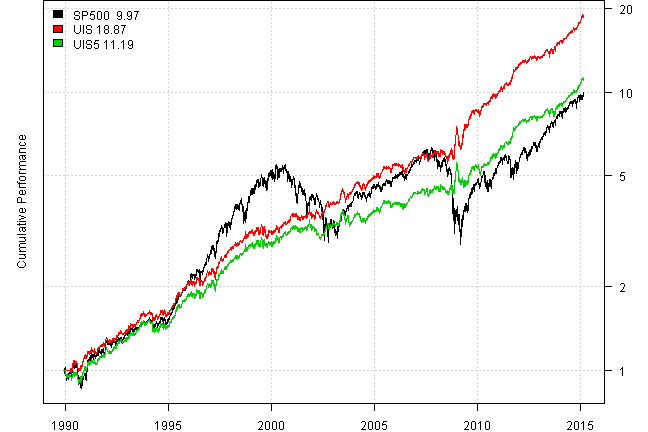
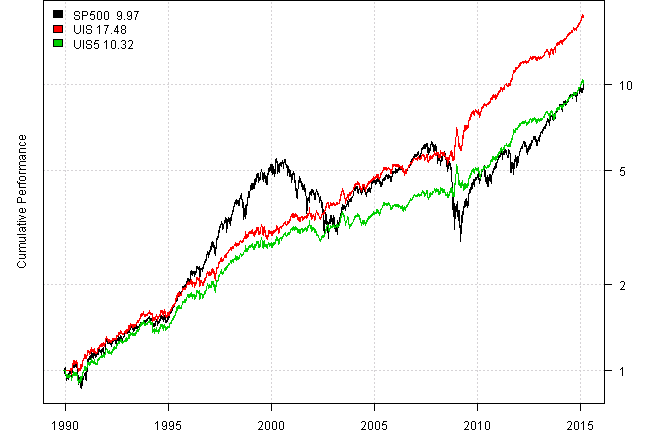
update blog post

diff --git a/_posts/2015-02-24-Walk-Forward-Optimization.md b/_posts/2015-02-24-Walk-Forward-Optimization.md
@@ -115,52 +115,20 @@ weight = make.xts(weight, data$dates[period.ends])
 #*****************************************************************
 # Test strategy
 #*****************************************************************
+commission = list(cps = 0.01, fixed = 10.0, percentage = 0.0)
+
 models = list()
 
 data$weight[] = NA
 	data$weight$EQ = 1
-models$SP500 = bt.run.share(data, clean.signal=T)
-{% endhighlight %}
-
-Latest weights :
+models$SP500 = bt.run.share(data, clean.signal=T, commission = commission, trade.summary=T, silent=T)
 
 
-|           |  EQ| FI|
-|:----------|---:|--:|
-|2015-02-25 | 100|  0|
-    
-
-
-
-Performance summary :
-	CAGR	Best	Worst	
-	9.5	14.5	-9.8	
-
-
-
-{% highlight r %}
 data$weight[] = NA
   data$weight[period.ends,] = as.matrix(weight)
-models$UIS = bt.run.share(data, clean.signal=F)
-{% endhighlight %}
-
-Latest weights :
+models$UIS = bt.run.share(data, clean.signal=F, commission = commission, trade.summary=T, silent=T)
 
 
-|           |    EQ|    FI|
-|:----------|-----:|-----:|
-|2015-02-25 | 53.06| 46.94|
-    
-
-
-
-Performance summary :
-	CAGR	Best	Worst	
-	12.4	5.2	-4.2	
-
-
-
-{% highlight r %}
 #*****************************************************************
 # Create Report
 #*****************************************************************
@@ -176,16 +144,20 @@ print(plotbt.strategy.sidebyside(models, make.plot=F, return.table=T, perfromanc
 
 
 
-|           |SP500             |UIS               |
-|:----------|:-----------------|:-----------------|
-|Period     |Dec1989 - Feb2015 |Dec1989 - Feb2015 |
-|Cagr       |9.55              |12.35             |
-|Sharpe     |0.59              |1.25              |
-|DVR        |0.48              |1.02              |
-|R2         |0.81              |0.82              |
-|Volatility |18.41             |9.75              |
-|MaxDD      |-55.19            |-17.07            |
-|Exposure   |99.98             |98.83             |
+|              |SP500             |UIS               |
+|:-------------|:-----------------|:-----------------|
+|Period        |Dec1989 - Feb2015 |Dec1989 - Feb2015 |
+|Cagr          |9.55              |12.01             |
+|Sharpe        |0.59              |1.21              |
+|DVR           |0.48              |1                 |
+|R2            |0.81              |0.82              |
+|Volatility    |18.41             |9.74              |
+|MaxDD         |-55.19            |-17.12            |
+|Exposure      |99.98             |98.83             |
+|Win.Percent   |100               |63.6              |
+|Avg.Trade     |896.71            |0.57              |
+|Profit.Factor |NaN               |2.08              |
+|Num.Trades    |1                 |533               |
     
 
 
@@ -195,6 +167,30 @@ print(plotbt.strategy.sidebyside(models, make.plot=F, return.table=T, perfromanc
 print(last.trades(models$UIS, make.plot=F, return.table=T))
 {% endhighlight %}
 
+
+
+|models$UIS |weight |entry.date |exit.date  |nhold |entry.price |exit.price |return |
+|:----------|:------|:----------|:----------|:-----|:-----------|:----------|:------|
+|EQ         | 40    |2014-04-30 |2014-05-30 |30    |185.52      |189.82     |  0.93 |
+|FI         | 60    |2014-04-30 |2014-05-30 |30    |108.71      |111.92     |  1.77 |
+|EQ         | 50    |2014-05-30 |2014-06-30 |31    |189.82      |193.74     |  1.03 |
+|FI         | 50    |2014-05-30 |2014-06-30 |31    |111.92      |111.64     | -0.12 |
+|EQ         | 50    |2014-06-30 |2014-07-31 |31    |193.74      |191.14     | -0.67 |
+|FI         | 50    |2014-06-30 |2014-07-31 |31    |111.64      |112.38     |  0.33 |
+|EQ         | 60    |2014-07-31 |2014-08-29 |29    |191.14      |198.68     |  2.37 |
+|FI         | 40    |2014-07-31 |2014-08-29 |29    |112.38      |117.69     |  1.89 |
+|EQ         | 60    |2014-08-29 |2014-09-30 |32    |198.68      |195.94     | -0.83 |
+|FI         | 40    |2014-08-29 |2014-09-30 |32    |117.69      |115.21     | -0.84 |
+|EQ         | 50    |2014-09-30 |2014-10-31 |31    |195.94      |200.55     |  1.18 |
+|FI         | 50    |2014-09-30 |2014-10-31 |31    |115.21      |118.45     |  1.41 |
+|EQ         | 40    |2014-10-31 |2014-11-28 |28    |200.55      |206.06     |  1.10 |
+|FI         | 60    |2014-10-31 |2014-11-28 |28    |118.45      |121.96     |  1.78 |
+|EQ         | 45    |2014-11-28 |2014-12-31 |33    |206.06      |205.54     | -0.11 |
+|FI         | 55    |2014-11-28 |2014-12-31 |33    |121.96      |125.67     |  1.67 |
+|EQ         | 40    |2014-12-31 |2015-01-30 |30    |205.54      |199.45     | -1.19 |
+|FI         | 60    |2014-12-31 |2015-01-30 |30    |125.67      |138.00     |  5.89 |
+|EQ         | 50    |2015-01-30 |2015-02-25 |26    |199.45      |211.63     |  3.05 |
+|FI         | 50    |2015-01-30 |2015-02-25 |26    |138.00      |130.23     | -2.82 |
     
 
 
@@ -209,33 +205,33 @@ print(plotbt.monthly.table(models$UIS$equity, make.plot = F))
 |     |Jan   |Feb   |Mar   |Apr   |May   |Jun   |Jul   |Aug   |Sep   |Oct   |Nov   |Dec   |Year  |MaxDD |
 |:----|:-----|:-----|:-----|:-----|:-----|:-----|:-----|:-----|:-----|:-----|:-----|:-----|:-----|:-----|
 |1989 |      |      |      |      |      |      |      |      |      |      |      |      |  0.0 |  0.0 |
-|1990 |  0.0 |  0.0 |  0.0 | -2.5 |  9.7 |  0.2 |  0.2 | -5.4 |  1.1 |  2.2 |  4.7 |  2.0 | 12.0 | -9.0 |
-|1991 |  1.5 |  2.1 |  1.0 |  0.8 |  1.5 | -2.9 |  1.4 |  3.6 |  1.6 |  0.2 | -0.8 |  6.7 | 17.8 | -4.5 |
-|1992 | -2.7 |  0.6 | -1.5 |  1.8 |  0.5 |  0.4 |  3.8 |  0.1 |  1.5 | -1.3 |  1.3 |  2.3 |  6.9 | -4.7 |
-|1993 |  0.4 |  1.3 |  1.8 | -1.2 |  0.7 |  3.1 |  1.4 |  4.1 |  0.3 |  1.0 | -1.7 |  0.9 | 12.7 | -4.0 |
-|1994 |  3.5 | -3.0 | -4.2 |  1.1 |  1.6 | -2.3 |  3.2 |  3.8 | -2.5 |  2.8 | -4.0 |  0.7 |  0.4 | -8.5 |
-|1995 |  2.5 |  3.0 |  1.4 |  2.4 |  5.2 |  1.5 |  0.6 |  1.1 |  3.6 |  0.0 |  3.5 |  2.2 | 30.6 | -2.8 |
-|1996 |  0.9 | -3.1 |  0.8 |  1.1 |  2.3 |  0.9 | -3.8 | -1.2 |  2.7 |  3.7 |  5.1 | -2.4 |  6.7 | -6.9 |
-|1997 |  1.5 |  0.5 | -3.8 |  6.1 |  1.9 |  3.1 |  5.3 | -2.7 |  2.9 |  3.1 |  1.4 |  1.7 | 22.5 | -8.8 |
-|1998 |  1.6 |  0.4 |  1.6 |  0.8 | -1.0 |  3.2 | -0.6 |  3.0 |  3.6 | -0.7 |  1.3 |  1.3 | 15.5 | -5.3 |
-|1999 |  1.8 | -4.2 |  1.6 |  2.4 | -2.1 |  3.9 | -3.0 | -0.5 | -2.2 |  0.2 |  1.7 |  1.8 |  1.0 |-11.3 |
-|2000 | -1.9 |  1.9 |  2.9 | -0.9 | -0.5 |  2.4 |  1.2 |  2.6 | -1.5 |  1.7 |  2.9 |  2.4 | 13.8 | -5.7 |
-|2001 |  0.6 |  0.1 | -1.1 | -2.5 |  0.2 |  0.8 |  0.8 |  0.9 |  0.9 |  5.0 | -4.5 | -1.6 | -0.6 | -9.0 |
-|2002 |  0.1 | -0.7 |  3.3 | -3.0 |  0.4 |  1.8 |  2.2 |  5.0 |  2.8 | -2.5 |  0.8 |  1.5 | 12.1 | -7.1 |
-|2003 | -1.1 |  1.8 | -1.0 |  2.9 |  6.1 | -0.9 | -5.3 |  1.9 | -1.1 |  5.4 |  0.9 |  3.4 | 13.0 |-11.1 |
-|2004 |  1.9 |  1.8 | -0.1 | -4.3 |  1.7 |  1.9 | -3.2 |  4.2 |  1.0 |  1.6 |  0.0 |  2.8 |  9.3 | -7.4 |
-|2005 |  0.4 |  0.3 | -1.1 |  3.9 |  3.2 |  1.9 | -1.2 |  1.0 | -1.2 | -2.3 |  4.4 |  0.3 |  9.6 | -5.1 |
-|2006 |  0.3 |  0.8 | -1.8 |  0.7 | -3.0 |  0.3 |  0.4 |  3.0 |  2.1 |  1.5 |  2.1 | -0.7 |  5.9 | -8.3 |
-|2007 |  0.5 |  0.2 | -0.6 |  3.2 | -0.3 | -1.2 | -2.5 |  1.8 |  0.6 |  1.7 |  3.0 | -0.8 |  5.6 | -6.5 |
-|2008 | -0.3 | -0.9 |  1.8 | -1.4 | -0.6 | -2.3 | -0.9 |  2.7 |  0.9 | -4.8 | 14.3 | 12.4 | 21.1 |-10.6 |
-|2009 |-12.3 | -3.4 |  4.7 |  9.9 |  5.8 |  0.2 |  5.1 |  3.2 |  3.1 | -2.3 |  3.7 | -2.2 | 14.6 |-15.6 |
-|2010 | -2.1 |  3.1 |  3.6 |  2.3 | -0.8 |  1.4 |  1.4 |  3.9 |  1.5 | -0.7 | -0.8 |  3.6 | 17.6 | -6.0 |
-|2011 |  1.2 |  3.2 |  0.0 |  2.7 |  1.1 | -2.0 |  1.2 |  4.4 |  6.1 |  2.1 |  1.0 |  2.4 | 25.8 | -3.5 |
-|2012 |  1.9 |  0.9 | -0.1 |  1.3 | -0.7 |  0.9 |  2.6 |  0.4 |  0.0 | -1.2 |  0.7 | -0.8 |  5.9 | -3.8 |
-|2013 |  0.1 |  1.3 |  2.1 |  3.0 | -1.7 | -2.1 |  4.0 | -3.0 |  3.2 |  4.6 |  1.8 |  1.0 | 15.0 | -6.3 |
-|2014 | -1.1 |  2.7 |  0.8 |  1.5 |  2.7 |  0.9 | -0.3 |  4.3 | -1.7 |  2.6 |  2.9 |  1.6 | 17.9 | -3.0 |
-|2015 |  4.7 |  0.2 |      |      |      |      |      |      |      |      |      |      |  5.0 | -2.1 |
-|Avg  |  0.2 |  0.4 |  0.5 |  1.3 |  1.4 |  0.6 |  0.6 |  1.7 |  1.2 |  0.9 |  1.8 |  1.7 | 11.8 | -6.5 |
+|1990 |  0.0 |  0.0 | -0.1 | -2.5 |  9.6 |  0.1 |  0.1 | -5.4 |  1.1 |  2.1 |  4.7 |  2.0 | 11.7 | -9.1 |
+|1991 |  1.4 |  2.1 |  0.9 |  0.7 |  1.5 | -3.0 |  1.4 |  3.6 |  1.6 |  0.2 | -0.8 |  6.7 | 17.3 | -4.6 |
+|1992 | -2.7 |  0.6 | -1.5 |  1.7 |  0.4 |  0.4 |  3.8 |  0.1 |  1.5 | -1.3 |  1.3 |  2.3 |  6.4 | -4.8 |
+|1993 |  0.3 |  1.3 |  1.8 | -1.3 |  0.7 |  3.1 |  1.4 |  4.1 |  0.2 |  1.0 | -1.7 |  0.9 | 12.2 | -4.1 |
+|1994 |  3.5 | -3.0 | -4.2 |  1.1 |  1.6 | -2.3 |  3.2 |  3.8 | -2.5 |  2.8 | -4.0 |  0.6 |  0.1 | -8.6 |
+|1995 |  2.5 |  2.9 |  1.4 |  2.4 |  5.2 |  1.4 |  0.6 |  1.1 |  3.6 |  0.0 |  3.5 |  2.2 | 30.2 | -2.8 |
+|1996 |  0.9 | -3.1 |  0.8 |  1.1 |  2.2 |  0.9 | -3.9 | -1.2 |  2.7 |  3.7 |  5.1 | -2.4 |  6.4 | -6.9 |
+|1997 |  1.4 |  0.4 | -3.9 |  6.0 |  1.9 |  3.1 |  5.3 | -2.7 |  2.8 |  3.1 |  1.4 |  1.7 | 22.1 | -8.8 |
+|1998 |  1.6 |  0.4 |  1.6 |  0.8 | -1.0 |  3.2 | -0.7 |  2.9 |  3.6 | -0.7 |  1.3 |  1.3 | 15.1 | -5.3 |
+|1999 |  1.8 | -4.3 |  1.6 |  2.3 | -2.1 |  3.8 | -3.0 | -0.5 | -2.3 |  0.2 |  1.6 |  1.8 |  0.6 |-11.3 |
+|2000 | -1.9 |  1.9 |  2.9 | -1.0 | -0.5 |  2.3 |  1.2 |  2.6 | -1.6 |  1.7 |  2.9 |  2.4 | 13.5 | -5.7 |
+|2001 |  0.6 |  0.0 | -1.1 | -2.5 |  0.2 |  0.8 |  0.8 |  0.9 |  0.9 |  5.0 | -4.5 | -1.6 | -0.9 | -9.1 |
+|2002 |  0.0 | -0.7 |  3.3 | -3.0 |  0.4 |  1.8 |  2.2 |  5.0 |  2.8 | -2.5 |  0.8 |  1.4 | 11.7 | -7.2 |
+|2003 | -1.2 |  1.7 | -1.0 |  2.9 |  6.1 | -1.0 | -5.3 |  1.8 | -1.1 |  5.3 |  0.8 |  3.4 | 12.7 |-11.2 |
+|2004 |  1.9 |  1.7 | -0.1 | -4.3 |  1.7 |  1.8 | -3.3 |  4.1 |  0.9 |  1.6 |  0.0 |  2.8 |  9.0 | -7.5 |
+|2005 |  0.3 |  0.3 | -1.1 |  3.8 |  3.1 |  1.8 | -1.2 |  1.0 | -1.2 | -2.4 |  4.4 |  0.3 |  9.3 | -5.2 |
+|2006 |  0.3 |  0.8 | -1.8 |  0.6 | -3.0 |  0.3 |  0.4 |  3.0 |  2.0 |  1.5 |  2.1 | -0.7 |  5.6 | -8.4 |
+|2007 |  0.5 |  0.2 | -0.6 |  3.2 | -0.3 | -1.3 | -2.5 |  1.7 |  0.6 |  1.7 |  3.0 | -0.8 |  5.3 | -6.5 |
+|2008 | -0.4 | -0.9 |  1.8 | -1.4 | -0.6 | -2.3 | -0.9 |  2.7 |  0.9 | -4.8 | 14.3 | 12.4 | 20.8 |-10.6 |
+|2009 |-12.4 | -3.4 |  4.6 |  9.9 |  5.8 |  0.2 |  5.0 |  3.2 |  3.1 | -2.3 |  3.7 | -2.2 | 14.3 |-15.6 |
+|2010 | -2.1 |  3.1 |  3.6 |  2.3 | -0.8 |  1.4 |  1.4 |  3.9 |  1.5 | -0.8 | -0.8 |  3.5 | 17.3 | -6.0 |
+|2011 |  1.2 |  3.2 |  0.0 |  2.6 |  1.1 | -2.1 |  1.2 |  4.3 |  6.1 |  2.1 |  1.0 |  2.3 | 25.5 | -3.5 |
+|2012 |  1.9 |  0.9 | -0.2 |  1.2 | -0.8 |  0.9 |  2.6 |  0.4 |  0.0 | -1.2 |  0.7 | -0.8 |  5.6 | -3.8 |
+|2013 |  0.1 |  1.2 |  2.1 |  3.0 | -1.8 | -2.1 |  4.0 | -3.0 |  3.2 |  4.6 |  1.8 |  1.0 | 14.7 | -6.3 |
+|2014 | -1.1 |  2.7 |  0.8 |  1.4 |  2.7 |  0.9 | -0.4 |  4.2 | -1.7 |  2.6 |  2.9 |  1.5 | 17.6 | -3.0 |
+|2015 |  4.7 |  0.2 |      |      |      |      |      |      |      |      |      |      |  4.9 | -2.1 |
+|Avg  |  0.1 |  0.4 |  0.5 |  1.2 |  1.3 |  0.6 |  0.5 |  1.7 |  1.1 |  0.9 |  1.8 |  1.7 | 11.4 | -6.6 |
     
 
 
@@ -279,26 +275,9 @@ weight = make.xts(weight, data$dates[period.ends])
 
 data$weight[] = NA
   data$weight[period.ends,] = as.matrix(weight)
-models$UIS5 = bt.run.share(data, clean.signal=F)
-{% endhighlight %}
-
-Latest weights :
+models$UIS5 = bt.run.share(data, clean.signal=F, commission = commission, trade.summary=T, silent=T)
 
 
-|           |    EQ|    FI|
-|:----------|-----:|-----:|
-|2015-02-25 | 48.04| 51.96|
-    
-
-
-
-Performance summary :
-	CAGR	Best	Worst	
-	10.1	4.7	-3.2	
-
-
-
-{% highlight r %}
 #*****************************************************************
 # Create Report
 #*****************************************************************
@@ -314,16 +293,20 @@ print(plotbt.strategy.sidebyside(models, make.plot=F, return.table=T, perfromanc
 
 
 
-|           |SP500             |UIS               |UIS5              |
-|:----------|:-----------------|:-----------------|:-----------------|
-|Period     |Dec1989 - Feb2015 |Dec1989 - Feb2015 |Dec1989 - Feb2015 |
-|Cagr       |9.55              |12.35             |10.05             |
-|Sharpe     |0.59              |1.25              |1.06              |
-|DVR        |0.48              |1.02              |0.93              |
-|R2         |0.81              |0.82              |0.87              |
-|Volatility |18.41             |9.75              |9.43              |
-|MaxDD      |-55.19            |-17.07            |-18.81            |
-|Exposure   |99.98             |98.83             |99.83             |
+|              |SP500             |UIS               |UIS5              |
+|:-------------|:-----------------|:-----------------|:-----------------|
+|Period        |Dec1989 - Feb2015 |Dec1989 - Feb2015 |Dec1989 - Feb2015 |
+|Cagr          |9.55              |12.01             |9.7               |
+|Sharpe        |0.59              |1.21              |1.03              |
+|DVR           |0.48              |1                 |0.9               |
+|R2            |0.81              |0.82              |0.88              |
+|Volatility    |18.41             |9.74              |9.42              |
+|MaxDD         |-55.19            |-17.12            |-18.92            |
+|Exposure      |99.98             |98.83             |99.83             |
+|Win.Percent   |100               |63.6              |61.23             |
+|Avg.Trade     |896.71            |0.57              |0.44              |
+|Profit.Factor |NaN               |2.08              |1.83              |
+|Num.Trades    |1                 |533               |570               |
     
 
 Unfortunately, the performance is not reflected in our modifications. Another idea we might try
@@ -380,48 +363,15 @@ best.weight = best.weight / rowSums(best.weight)
 
 data$weight[] = NA
   data$weight[period.ends,] = as.matrix(avg.weight)
-models$UIS.A = bt.run.share(data, clean.signal=F)
-{% endhighlight %}
-
-Latest weights :
+models$UIS.A = bt.run.share(data, clean.signal=F, commission = commission, trade.summary=T, silent=T)
 
 
-|           |    EQ|    FI|
-|:----------|-----:|-----:|
-|2015-02-25 | 47.15| 52.85|
-    
-
-
-
-Performance summary :
-	CAGR	Best	Worst	
-	11.1	4.2	-3.2	
-
-
-
-{% highlight r %}
 data$weight[] = NA
   data$weight[period.ends,] = as.matrix(best.weight)
-models$UIS.B = bt.run.share(data, clean.signal=F)
-{% endhighlight %}
-
-Latest weights :
-
-
-|           |    EQ|    FI|
-|:----------|-----:|-----:|
-|2015-02-25 | 53.06| 46.94|
-    
+models$UIS.B = bt.run.share(data, clean.signal=F, commission = commission, trade.summary=T, silent=T)
 
 
 
-Performance summary :
-	CAGR	Best	Worst	
-	10.3	4.7	-3.9	
-
-
-
-{% highlight r %}
 #*****************************************************************
 # Create Report
 #*****************************************************************
@@ -437,16 +387,20 @@ print(plotbt.strategy.sidebyside(models, make.plot=F, return.table=T, perfromanc
 
 
 
-|           |SP500             |UIS               |UIS5              |UIS.A             |UIS.B             |
-|:----------|:-----------------|:-----------------|:-----------------|:-----------------|:-----------------|
-|Period     |Dec1989 - Feb2015 |Dec1989 - Feb2015 |Dec1989 - Feb2015 |Dec1989 - Feb2015 |Dec1989 - Feb2015 |
-|Cagr       |9.55              |12.35             |10.05             |11.14             |10.35             |
-|Sharpe     |0.59              |1.25              |1.06              |1.19              |1.17              |
-|DVR        |0.48              |1.02              |0.93              |1.02              |1.05              |
-|R2         |0.81              |0.82              |0.87              |0.85              |0.9               |
-|Volatility |18.41             |9.75              |9.43              |9.23              |8.75              |
-|MaxDD      |-55.19            |-17.07            |-18.81            |-16.67            |-17.85            |
-|Exposure   |99.98             |98.83             |99.83             |97.84             |99.18             |
+|              |SP500             |UIS               |UIS5              |UIS.A             |UIS.B             |
+|:-------------|:-----------------|:-----------------|:-----------------|:-----------------|:-----------------|
+|Period        |Dec1989 - Feb2015 |Dec1989 - Feb2015 |Dec1989 - Feb2015 |Dec1989 - Feb2015 |Dec1989 - Feb2015 |
+|Cagr          |9.55              |12.01             |9.7               |10.82             |10.02             |
+|Sharpe        |0.59              |1.21              |1.03              |1.16              |1.14              |
+|DVR           |0.48              |1                 |0.9               |1                 |1.03              |
+|R2            |0.81              |0.82              |0.88              |0.86              |0.9               |
+|Volatility    |18.41             |9.74              |9.42              |9.22              |8.74              |
+|MaxDD         |-55.19            |-17.12            |-18.92            |-16.73            |-17.94            |
+|Exposure      |99.98             |98.83             |99.83             |97.84             |99.18             |
+|Win.Percent   |100               |63.6              |61.23             |61.99             |62.26             |
+|Avg.Trade     |896.71            |0.57              |0.44              |0.47              |0.45              |
+|Profit.Factor |NaN               |2.08              |1.83              |1.94              |1.88              |
+|Num.Trades    |1                 |533               |570               |584               |575               |
     
 
 
